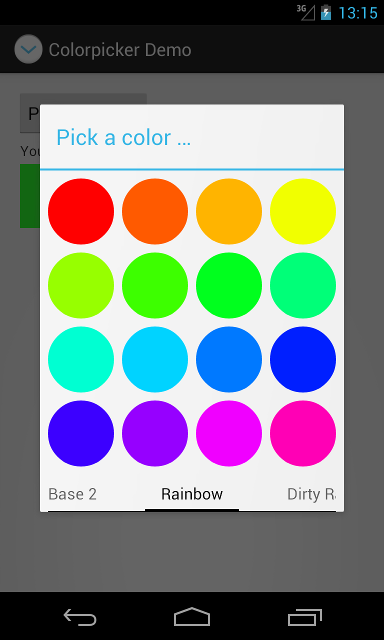
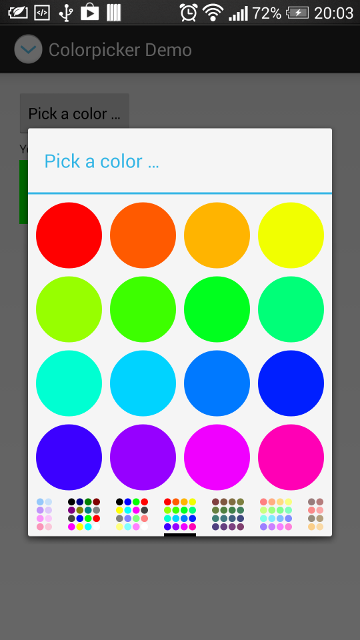
add palette preview strip update screenshots

diff --git a/src/org/dmfs/android/colorpicker/PalettesPagerAdapter.java b/src/org/dmfs/android/colorpicker/PalettesPagerAdapter.java
@@ -20,10 +20,19 @@
 package org.dmfs.android.colorpicker;
 
 import org.dmfs.android.colorpicker.palettes.AbstractPalette;
+import org.dmfs.android.view.IDrawableTitlePagerAdapter;
 
+import android.content.res.Resources;
+import android.graphics.Bitmap;
+import android.graphics.Bitmap.Config;
+import android.graphics.Canvas;
+import android.graphics.Paint;
+import android.graphics.drawable.BitmapDrawable;
+import android.graphics.drawable.Drawable;
 import android.support.v4.app.Fragment;
 import android.support.v4.app.FragmentManager;
 import android.support.v4.app.FragmentStatePagerAdapter;
+import android.support.v4.util.LruCache;
 
 
 /**
@@ -31,18 +40,24 @@ import android.support.v4.app.FragmentStatePagerAdapter;
  * 
  * @author Marten Gajda <marten@dmfs.org>
  */
-public class PalettesPagerAdapter extends FragmentStatePagerAdapter
+public class PalettesPagerAdapter extends FragmentStatePagerAdapter implements IDrawableTitlePagerAdapter
 {
+	private final static int PREVIEW_SIZE = 32; // dp
 
 	private final static int FACTOR = 100;
 
 	private AbstractPalette[] mPalettes;
+	private final Resources mResources;
+	private final float mDensity;
+	private final PreviewCache mCache = new PreviewCache(15);
 
 
-	public PalettesPagerAdapter(FragmentManager fm, AbstractPalette... palettes)
+	public PalettesPagerAdapter(Resources res, FragmentManager fm, AbstractPalette... palettes)
 	{
 		super(fm);
 		mPalettes = palettes;
+		mResources = res;
+		mDensity = res.getDisplayMetrics().density;
 	}
 
 
@@ -85,7 +100,7 @@ public class PalettesPagerAdapter extends FragmentStatePagerAdapter
 
 
 	/**
-	 * Get the actial postion from the "infinite" position.
+	 * Get the actual position from the "infinite" position.
 	 * 
 	 * @param position
 	 *            The position in the "infinite" list of palettes.
@@ -94,5 +109,55 @@ public class PalettesPagerAdapter extends FragmentStatePagerAdapter
 	private int mapPosition(int position)
 	{
 		return position % mPalettes.length;
+	}
+
+
+	@Override
+	public Drawable getDrawableTitle(int position)
+	{
+		return mCache.get(mapPosition(position));
+	}
+
+	/**
+	 * A cache for palette preview images.
+	 */
+	class PreviewCache extends LruCache<Integer, Drawable>
+	{
+
+		public PreviewCache(int maxSize)
+		{
+			super(maxSize);
+		}
+
+
+		@Override
+		protected Drawable create(Integer key)
+		{
+			AbstractPalette palette = mPalettes[key];
+			final int size = (int) (PREVIEW_SIZE * mDensity);
+			final int cols = palette.getNumberOfColumns();
+
+			Bitmap preview = Bitmap.createBitmap(size, size, Config.ARGB_8888);
+			Canvas canvas = new Canvas(preview);
+
+			final float spacing = 1.2f * mDensity;
+			final float halfSpacing = spacing / 2;
+			final float grid = (size + spacing) / cols;
+			final float radius = (grid - spacing) / 2;
+			Paint paint = new Paint();
+			paint.setFlags(Paint.ANTI_ALIAS_FLAG);
+
+			for (int j = 0, k = palette.getNumberOfColors() / cols; j < k; ++j)
+			{
+				for (int i = 0, l = cols; i < l; ++i)
+				{
+					paint.setColor(palette.getColor(j * cols + i) + 0xff000000);
+					// canvas.drawRect(i * grid, j * grid, (i + 1) * grid - spacing, (j + 1) * grid - spacing, paint);
+					canvas.drawCircle((i + 0.5f) * grid - halfSpacing, (j + 0.5f) * grid - halfSpacing, radius, paint);
+				}
+			}
+
+			return new BitmapDrawable(mResources, preview);
+		}
 	}
 }

diff --git a/src/org/dmfs/android/colorpicker/ColorPickerDialogFragment.java b/src/org/dmfs/android/colorpicker/ColorPickerDialogFragment.java
@@ -23,12 +23,12 @@ import org.dmfs.android.colorpicker.PaletteFragment.OnColorSelectedListener;
 import org.dmfs.android.colorpicker.palettes.AbstractPalette;
 import org.dmfs.android.retentionmagic.SupportDialogFragment;
 import org.dmfs.android.retentionmagic.annotations.Retain;
+import org.dmfs.android.view.ViewPager;
 
 import android.app.Activity;
 import android.app.Dialog;
 import android.os.Bundle;
 import android.support.v4.app.Fragment;
-import android.support.v4.view.ViewPager;
 import android.text.TextUtils;
 import android.view.LayoutInflater;
 import android.view.View;
@@ -147,7 +147,7 @@ public class ColorPickerDialogFragment extends SupportDialogFragment implements 
 		View view = inflater.inflate(R.layout.org_dmfs_colorpickerdialog_fragment, container);
 
 		mPager = (ViewPager) view.findViewById(R.id.pager);
-		mPagerAdapter = new PalettesPagerAdapter(getChildFragmentManager(), mPalettes);
+		mPagerAdapter = new PalettesPagerAdapter(getResources(), getChildFragmentManager(), mPalettes);
 		mPagerAdapter.notifyDataSetChanged();
 		mPager.setAdapter(mPagerAdapter);
 		mPager.setCurrentItem(mPagerAdapter.getCount() / 2 + mSelected);

diff --git a/src/org/dmfs/android/colorpicker/SquareViewPager.java b/src/org/dmfs/android/colorpicker/SquareViewPager.java
@@ -19,8 +19,9 @@
 
 package org.dmfs.android.colorpicker;
 
+import org.dmfs.android.view.ViewPager;
+
 import android.content.Context;
-import android.support.v4.view.ViewPager;
 import android.util.AttributeSet;
 
 

diff --git a/README.md b/README.md
@@ -7,7 +7,9 @@ This is a nice and simple color picker for Android. It allows to show any number
 
 ## Requirements
 
-The Android support library 19 or newer.
+* Android support library 19 or newer
+* [Retention Magic](https://github.com/dmfs/retention-magic)
+* [DrawablePagerTitleStrip](https://github.com/dmfs/DrawablePagerTitleStrip)
 
 ## Example code
 
@@ -48,9 +50,8 @@ The calling activity or fragment should implement `ColorPickerDialogFragment.OnC
 * fix selected/focused backgrounds
 * allow to customize color shapes
 * allow to preselect a specific color
-* show a palette preview in title strip
 * add support for other fragment types, like hex input or color wheels
 
 ## License
 
-Copyright (c) Marten Gajda 2012, licensed under GPL version 2 or newer (see `LICENSE`).
+Copyright (c) Marten Gajda 2013, licensed under GPL version 2 or newer (see `LICENSE`).
